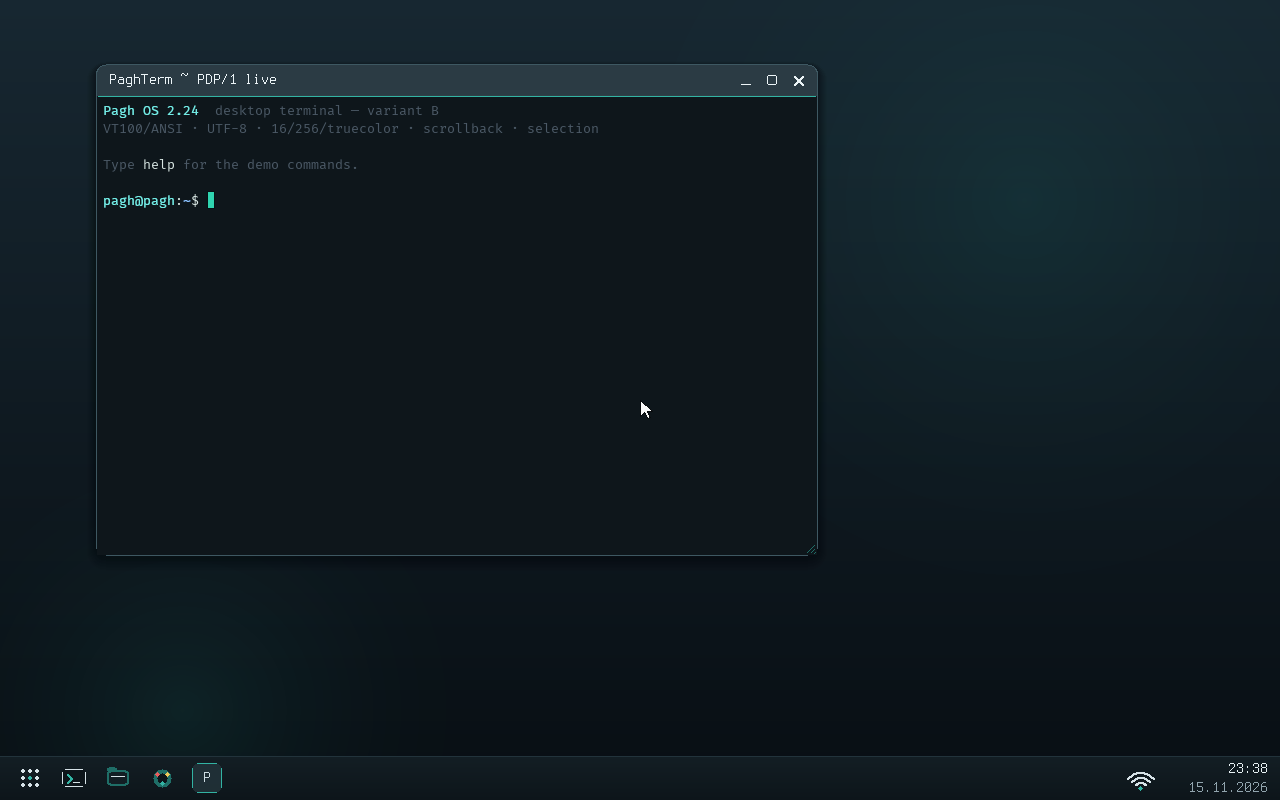
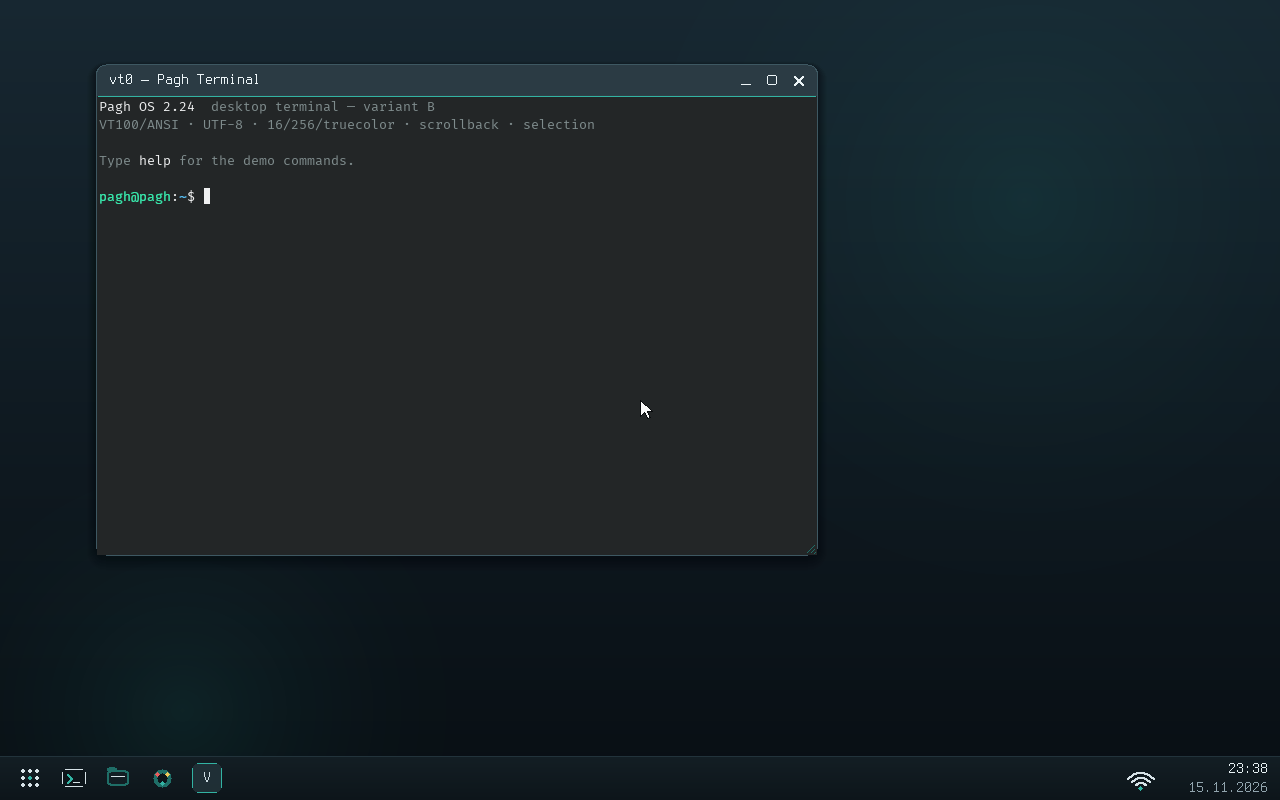
terminal: name the live window after the session, not the product
In the live PDP/1 path the compositor draws the window title bar from the
title the client sends in `create`, and the client's default was
"PaghTerm" — a product name sitting over a bare grid.  The session name
("vt0 — Pagh Terminal") is what the screenshot strip already shows, and
there is exactly one session (one kernel-VT), so the window advertises
that instead; `--title` still overrides it.

The live fixture is regenerated against the current dev compositor: the
window now reads "vt0 — Pagh Terminal" over near-black content, and the
title bar and its buttons belong to the compositor, not to the client.

TERMINAL.md's theme/chrome paragraph described the removed teal title
bar with traffic-light dots, `— □ ×` buttons and a status readout; it now
describes the hairline Breeze-dark strip actually rendered.

Changed region(s): [[0.0625, 0.125, 0.3438, 0.2812], [0.4062, 0.1562, 0.4688, 0.1875], [0.3438, 0.1562, 0.375, 0.1875]]

diff --git a/rust-apps/pagh-terminal/src/bin/pagh-terminal.rs b/rust-apps/pagh-terminal/src/bin/pagh-terminal.rs
@@ -74,7 +74,10 @@ impl Default for Args {
             select: None,
             window: true,
             focused: true,
-            title: "PaghTerm".to_string(),
+            // The compositor draws the window title bar, so this string is what
+            // the user sees above the grid: the session name, not a product
+            // name.  One kernel-VT means one session — no tab-style label.
+            title: "vt0 — Pagh Terminal".to_string(),
             window_id: 101,
             feed: None,
             screenshots: None,

diff --git a/rust-apps/pagh-terminal/TERMINAL.md b/rust-apps/pagh-terminal/TERMINAL.md
@@ -186,8 +186,10 @@ wide wrap, selection, resize, DECRQM, malformed sequences.  Плюс unit-тес
   em 16 px).  Ассеты генерируются `tools/gen_font.py` (нужны Pillow/fontTools
   только на хосте): 1203 узких + 487 широких глифов, coverage 0–255.
   Лицензии шрифтов — `fonts/LICENSES.md`, OFL 1.1.
-* `Theme` (teal-dark): фон `#0e161b`, foreground `#d8e6e3`, accent
-  `#2fd4b0`, палитра xterm 256, отдельные цвета title/status/selection/cursor.
+* `Theme` (Breeze dark, как у Konsole): фон `#232627`, foreground `#eff0f1`,
+  блочный курсор, приглушённый `#7f8c8d` для неfocused-курсора и скроллбара,
+  `#31363b` для полосы заголовка; ANSI 0–15 — стандартные значения Breeze,
+  16–255 — обычный xterm-куб.
 * SGR-резолвинг: palette/truecolor, bold (bright + лёгкое усиление),
   dim, reverse, hidden, blink (фаза), underline/strikethrough/overline,
   italic (синтетический наклон), DECSCNM.
@@ -199,9 +201,12 @@ wide wrap, selection, resize, DECRQM, malformed sequences.  Плюс unit-тес
   foreground берутся из темы.
 * Scrollback: до 10 000 строк (настраивается), вытеснение oldest-first,
   абсолютные координаты selection не сдвигаются; view offset и scrollbar.
-* Окно для скриншотов: title bar с индикаторами, кнопками `— □ ×`, статус
-  `cols×rows  UTF-8  ANSI 256  SB n  cursor`, accent-полоса.  В live-режиме
-  decorations рисует compositor, клиент коммитит только содержимое (с padding).
+* Окно для скриншотов: одна тонкая полоса `#31363b` с именем сессии
+  `vt0 — Pagh Terminal` приглушённым мелким шрифтом, без индикаторов, кнопок,
+  статус-строки и accent-полосы; отступ сетки 2 px, контент на всю площадь.
+  В live-режиме decorations рисует compositor (`PROTOCOL.md` §10), поэтому
+  клиент коммитит только содержимое (с padding) и оконные кнопки не дублирует.
+  Вкладок нет: терминал зеркалит один kernel-VT (`/dev/vtconsole0`).
 * PNG: RGBA8, filter 0, zlib stored blocks; валидный PNG без внешних
   зависимостей, decoder проверяет CRC/Adler/LEN и читает только собственный
   подмножество (для golden-тестов).  Размер файла ~1–1.7 MB на кадр — цена
